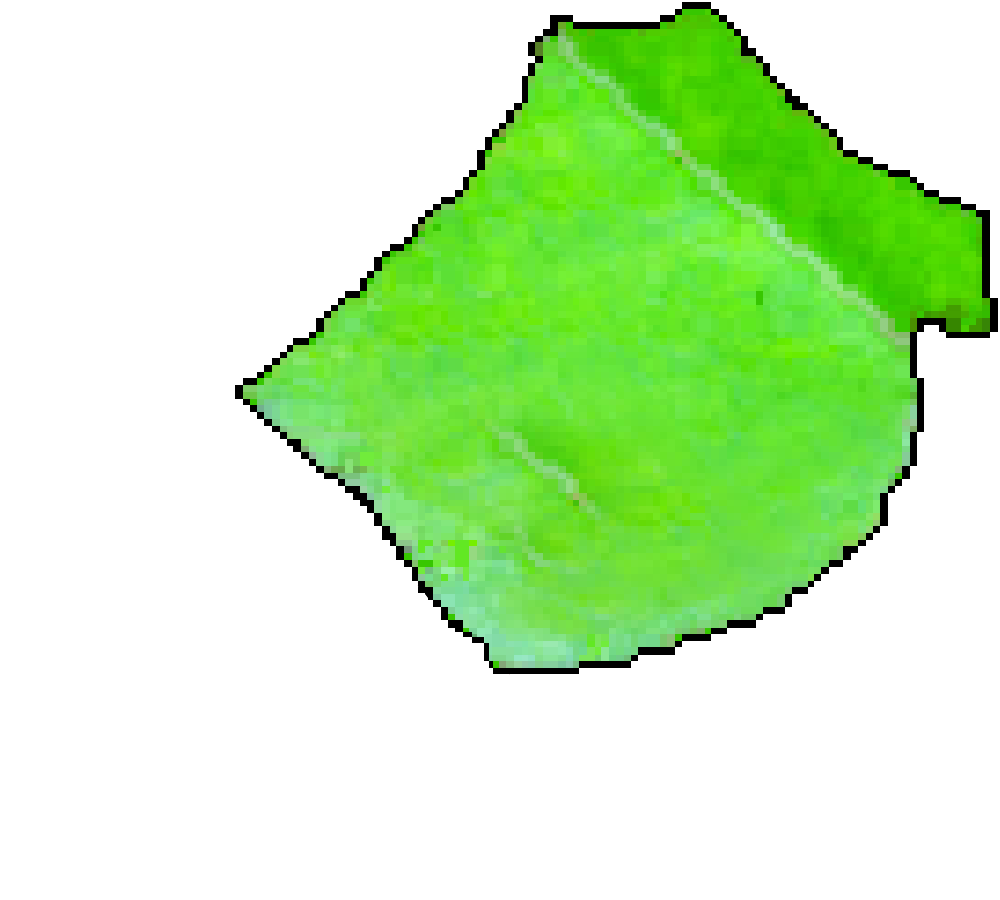
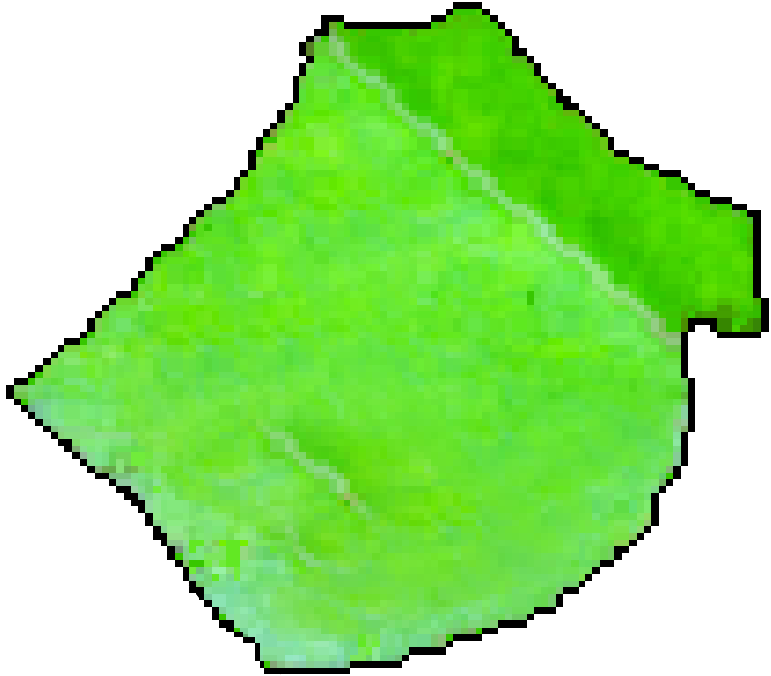
Cropped the leaf image. Implemented spritesheet for big ants walking. Recalculated the border points for the leaf regarding fungus and leaf minim walking

diff --git a/js/game/flyDefense/parentAntObject.js b/js/game/flyDefense/parentAntObject.js
@@ -1,67 +1,81 @@
 function ParentAntObject()
 {
-	this.bigAntHeight = renderer.canvas.height*0.7;
-	this.bigAntWidth = renderer.canvas.width*1.25;
+	this.bigAntHeight = renderer.canvas.height*0.33;
+	this.bigAntWidth = renderer.canvas.width*0.5;
 	this.bigAntX = renderer.canvas.width/2 - this.bigAntWidth/2;
-	this.bigAntY = renderer.canvas.height*0.3;
-	
+	this.bigAntY = renderer.canvas.height - this.bigAntHeight*1.2;
+	this.bigAntWalkingSourceWidth = 553;
+	this.bigAntWalkingSourceHeight = 320;
+
 	this.x = renderer.canvas.width/2 - this.bigAntWidth/2;
 	this.y = renderer.canvas.height*0.6;
 
 	this.leafImage = leafImage;
 	this.fungusImage = fungusImage;
-	this.arrayOfBigAntWalkingImages = [bigAntWalkingSpriteSheet];
-	//this.randomWalkingImageIndex = getRandomIntInclusive(0,this.arrayOfBigAntWalkingImages.length - 1);
-	this.currentBigAntImage = this.arrayOfBigAntWalkingImages[0];
 
+	this.currentBigAntWalkingImageIndex = getRandomIntInclusive(0,10);
+	
+	this.cycleBigAntImages = function()
+	{
+		this.currentBigAntWalkingImageIndex++;
+		if (this.currentBigAntWalkingImageIndex > 10)
+		{
+			this.currentBigAntWalkingImageIndex = 0;
+		}
+	}
+
+	// this.cycleBigAntImagesInterval = new frameInterval(this.cycleBigAntImages, 100);
+	// this.cycleBigAntImagesInterval.start();
+	
+	this.drawBigAnt = function()
+	{
+		renderer.drawImage(bigAntWalkingSpriteSheet, 
+			this.bigAntWalkingSourceWidth*this.currentBigAntWalkingImageIndex,0, this.bigAntWalkingSourceWidth,this.bigAntWalkingSourceHeight,
+			this.bigAntX,this.bigAntY, this.bigAntWidth,this.bigAntHeight);
+	}
+
+	this.leafWidth = this.bigAntWidth*0.7;
+	this.leafHeight = this.bigAntHeight*2;
+	this.leafX = this.bigAntX + this.bigAntWidth*0.55;
+	this.leafY = this.bigAntY + this.bigAntHeight/2 - this.leafHeight*1.05;
 
 	this.leafPolygonWalkingBorderPoints = 
 		[
 
-			{name:'1',x:renderer.canvas.width*0.565,y:renderer.canvas.height*0.05},
-			{name:'2',x:renderer.canvas.width*0.68,y:renderer.canvas.height*0.18},
-			{name:'3',x:renderer.canvas.width*0.77,y:renderer.canvas.height*0.22},
-			{name:'4',x:renderer.canvas.width*0.785,y:renderer.canvas.height*0.33},
-			{name:'5',x:renderer.canvas.width*0.8,y:renderer.canvas.height*0.36},
-			{name:'6',x:renderer.canvas.width*0.75,y:renderer.canvas.height*0.53},
-			{name:'7',x:renderer.canvas.width*0.725,y:renderer.canvas.height*0.69},
-			{name:'8',x:renderer.canvas.width*0.64,y:renderer.canvas.height*0.76},
-			{name:'9',x:renderer.canvas.width*0.66,y:renderer.canvas.height*0.685},
-			{name:'10',x:renderer.canvas.width*0.615,y:renderer.canvas.height*0.73},
-			{name:'11',x:renderer.canvas.width*0.575,y:renderer.canvas.height*0.75},
-			{name:'12',x:renderer.canvas.width*0.555,y:renderer.canvas.height*0.73},
-			{name:'13',x:renderer.canvas.width*0.48,y:renderer.canvas.height*0.65},
-			{name:'14',x:renderer.canvas.width*0.45,y:renderer.canvas.height*0.45},
-			{name:'15',x:renderer.canvas.width*0.445,y:renderer.canvas.height*0.355},
-			{name:'16',x:renderer.canvas.width*0.46,y:renderer.canvas.height*0.345},
-			{name:'17',x:renderer.canvas.width*0.465,y:renderer.canvas.height*0.335},
-			{name:'18',x:renderer.canvas.width*0.515,y:renderer.canvas.height*0.225},
-			{name:'19',x:renderer.canvas.width*0.565,y:renderer.canvas.height*0.05}
+			{name:'1',x:this.leafX-this.leafWidth*0.025,y:this.leafY + this.leafHeight*0.575},
+			{name:'2',x:this.leafX+this.leafWidth*0.275,y:this.leafY + this.leafHeight*0.3},
+			{name:'3',x:this.leafX+this.leafWidth*0.425,y:this.leafY + this.leafHeight*0.025},
+			{name:'4',x:this.leafX+this.leafWidth*0.625,y:this.leafY + this.leafHeight*0.01},
+			{name:'5',x:this.leafX+this.leafWidth*0.825,y:this.leafY + this.leafHeight*0.22},
+			{name:'6',x:this.leafX+this.leafWidth,y:this.leafY + this.leafHeight*0.32},
+			{name:'7',x:this.leafX+this.leafWidth,y:this.leafY + this.leafHeight*0.5},
+			{name:'8',x:this.leafX+this.leafWidth*0.9,y:this.leafY + this.leafHeight*0.5},
+			{name:'9',x:this.leafX+this.leafWidth*0.9125,y:this.leafY + this.leafHeight*0.66},
+			{name:'10',x:this.leafX+this.leafWidth*0.775,y:this.leafY + this.leafHeight*0.88},
+			{name:'11',x:this.leafX+this.leafWidth*0.45,y:this.leafY + this.leafHeight*1.0125},
+			{name:'12',x:this.leafX+this.leafWidth*0.275,y:this.leafY + this.leafHeight*0.95},
+			{name:'13',x:this.leafX+this.leafWidth*0.15,y:this.leafY + this.leafHeight*0.75},
+			{name:'19',x:this.leafX-this.leafWidth*0.025,y:this.leafY + this.leafHeight*0.575}
 
 		];
 
 	this.leafPolygonFungusBorderPoints = 
 	[
 
-		{name:'1',x:renderer.canvas.width*0.565,y:renderer.canvas.height*0.06},
-		{name:'2',x:renderer.canvas.width*0.68,y:renderer.canvas.height*0.2},
-		{name:'3',x:renderer.canvas.width*0.77,y:renderer.canvas.height*0.24},
-		{name:'4',x:renderer.canvas.width*0.775,y:renderer.canvas.height*0.33},
-		{name:'5',x:renderer.canvas.width*0.79,y:renderer.canvas.height*0.36},
-		{name:'6',x:renderer.canvas.width*0.74,y:renderer.canvas.height*0.53},
-		{name:'7',x:renderer.canvas.width*0.715,y:renderer.canvas.height*0.675},
-		{name:'8',x:renderer.canvas.width*0.66,y:renderer.canvas.height*0.72},
-		{name:'9',x:renderer.canvas.width*0.66,y:renderer.canvas.height*0.66},
-		{name:'10',x:renderer.canvas.width*0.615,y:renderer.canvas.height*0.7},
-		{name:'11',x:renderer.canvas.width*0.575,y:renderer.canvas.height*0.69},
-		{name:'12',x:renderer.canvas.width*0.56,y:renderer.canvas.height*0.68},
-		{name:'13',x:renderer.canvas.width*0.505,y:renderer.canvas.height*0.62},
-		{name:'14',x:renderer.canvas.width*0.46,y:renderer.canvas.height*0.45},
-		{name:'15',x:renderer.canvas.width*0.455,y:renderer.canvas.height*0.355},
-		{name:'16',x:renderer.canvas.width*0.47,y:renderer.canvas.height*0.355},
-		{name:'17',x:renderer.canvas.width*0.475,y:renderer.canvas.height*0.335},
-		{name:'18',x:renderer.canvas.width*0.525,y:renderer.canvas.height*0.225},
-		{name:'19',x:renderer.canvas.width*0.565,y:renderer.canvas.height*0.06}
+		{name:'1',x:this.leafX+this.leafWidth*0.04,y:this.leafY + this.leafHeight*0.575},
+		{name:'2',x:this.leafX+this.leafWidth*0.375,y:this.leafY + this.leafHeight*0.2},
+		{name:'3',x:this.leafX+this.leafWidth*0.425,y:this.leafY + this.leafHeight*0.05},
+		{name:'4',x:this.leafX+this.leafWidth*0.625,y:this.leafY + this.leafHeight*0.05},
+		{name:'5',x:this.leafX+this.leafWidth*0.75,y:this.leafY + this.leafHeight*0.22},
+		{name:'6',x:this.leafX+this.leafWidth*0.975,y:this.leafY + this.leafHeight*0.32},
+		{name:'7',x:this.leafX+this.leafWidth*0.975,y:this.leafY + this.leafHeight*0.48},
+		{name:'8',x:this.leafX+this.leafWidth*0.87,y:this.leafY + this.leafHeight*0.46},
+		{name:'9',x:this.leafX+this.leafWidth*0.86,y:this.leafY + this.leafHeight*0.66},
+		{name:'10',x:this.leafX+this.leafWidth*0.725,y:this.leafY + this.leafHeight*0.88},
+		{name:'11',x:this.leafX+this.leafWidth*0.45,y:this.leafY + this.leafHeight*0.975},
+		{name:'12',x:this.leafX+this.leafWidth*0.35,y:this.leafY + this.leafHeight*0.95},
+		{name:'13',x:this.leafX+this.leafWidth*0.15,y:this.leafY + this.leafHeight*0.7},
+		{name:'19',x:this.leafX+this.leafWidth*0.04,y:this.leafY + this.leafHeight*0.575}
 
 	];
 
@@ -132,8 +146,9 @@ function ParentAntObject()
 
 	this.draw = function()
 	{
-		this.drawBigAnt();
 		this.drawLeaf();
+		this.drawBigAnt();
+		
 		this.drawFungusSpores();
 		this.drawSmallAnt();
 		this.infectionAlertMessage.draw();
@@ -146,63 +161,38 @@ function ParentAntObject()
 		}
 	}
 
-	let bigAntImageWalkingIndex = 0;
-	let bigAntImageDirection = 1;
-	this.cycleBigAntImages = function()
-	{
-		defenseGame.parentAntObject.currentBigAntImage = defenseGame.parentAntObject.arrayOfBigAntWalkingImages[bigAntImageWalkingIndex];
-		bigAntImageWalkingIndex++;
-		if (bigAntImageWalkingIndex > defenseGame.parentAntObject.arrayOfBigAntWalkingImages.length - 1)
-		{
-			bigAntImageWalkingIndex = 0;
-		}
-		
-	}
-
-	this.cycleBigAntImagesInterval = new frameInterval(this.cycleBigAntImages, 100);
-	this.cycleBigAntImagesInterval.start();
 	
-	this.drawBigAnt = function()
-	{
-		renderer.drawImage(this.currentBigAntImage, this.bigAntX,this.bigAntY, this.bigAntWidth,this.bigAntHeight);
-		
-	}
-
 	
-	this.leafWidth = this.bigAntWidth*0.5;
-	this.leafHeight = this.bigAntHeight*1.75;
-	this.leafX = this.bigAntX + this.bigAntWidth - this.leafWidth*0.75;
-	this.leafY = this.bigAntY + this.bigAntHeight/2 - this.leafHeight;
 	
 	this.drawLeaf = function()
 	{
 		renderer.drawImage(this.leafImage, this.leafX,this.leafY, this.leafWidth,this.leafHeight);
 		if (defenseGame.debugOn === true)
 		{
-			renderer.strokeStyle = 'red';
-			renderer.lineWidth = 5;
-			renderer.strokeRect(this.fungusTangleX,this.fungusTangleY, this.fungusTangleWidth,this.fungusTangleHeight);
+			// renderer.strokeStyle = 'white';
+			// renderer.lineWidth = 5;
+			// renderer.strokeRect(this.fungusTangleX,this.fungusTangleY, this.fungusTangleWidth,this.fungusTangleHeight);
 
-			renderer.moveTo(this.leafPolygonFungusBorderPoints[0].x,this.leafPolygonFungusBorderPoints[0].y);
-			for (let i = 1; i < this.leafPolygonFungusBorderPoints.length; i++)
-			{
+			// renderer.moveTo(this.leafPolygonFungusBorderPoints[0].x,this.leafPolygonFungusBorderPoints[0].y);
+			// for (let i = 1; i < this.leafPolygonFungusBorderPoints.length; i++)
+			// {
 				
 				
-				renderer.fillStyle = 'black';
-				renderer.fillRect(this.leafPolygonFungusBorderPoints[i].x,this.leafPolygonFungusBorderPoints[i].y, 5,5);
-				renderer.font = '20px Helvetica';
-				renderer.fillText(this.leafPolygonFungusBorderPoints[i].name, this.leafPolygonFungusBorderPoints[i].x,this.leafPolygonFungusBorderPoints[i].y);
+			// 	renderer.fillStyle = 'black';
+			// 	renderer.fillRect(this.leafPolygonFungusBorderPoints[i].x,this.leafPolygonFungusBorderPoints[i].y, 5,5);
+			// 	renderer.font = '20px Helvetica';
+			// 	renderer.fillText(this.leafPolygonFungusBorderPoints[i].name, this.leafPolygonFungusBorderPoints[i].x,this.leafPolygonFungusBorderPoints[i].y);
 
-				renderer.lineTo(this.leafPolygonFungusBorderPoints[i].x,this.leafPolygonFungusBorderPoints[i].y);
-			}
-			renderer.strokeStyle = 'red';
-			renderer.stroke();
+			// 	renderer.lineTo(this.leafPolygonFungusBorderPoints[i].x,this.leafPolygonFungusBorderPoints[i].y);
+			// }
+			// renderer.strokeStyle = 'white';
+			// renderer.stroke();
 
 			renderer.moveTo(this.leafPolygonWalkingBorderPoints[0].x,this.leafPolygonWalkingBorderPoints[0].y);
 			for (let i = 1; i < this.leafPolygonWalkingBorderPoints.length; i++)
 			{
 				
-				renderer.fillStyle = 'green';
+				renderer.fillStyle = 'lawngreen';
 				renderer.fillRect(this.leafPolygonWalkingBorderPoints[i].x,this.leafPolygonWalkingBorderPoints[i].y, 5,5);
 				renderer.font = '20px Helvetica';
 				renderer.fillText(this.leafPolygonWalkingBorderPoints[i].name, this.leafPolygonWalkingBorderPoints[i].x,this.leafPolygonWalkingBorderPoints[i].y);
@@ -913,6 +903,9 @@ function ParentAntObject()
 		this.initializeLineSegments();
 		this.initializeArrayOfFungusSpores();
 		this.infectionAlertMessage.initialize();
+		console.log(this.currentBigAntWalkingImageIndex);
+		var _this = this;
+		setInterval(function() {_this.cycleBigAntImages()},100);
 	}
 
 	this.headTarget = new Target('head target', renderer.canvas.width * 0.615,renderer.canvas.height * 0.665);

diff --git a/js/game/flyDefense/NPCBigAnt.js b/js/game/flyDefense/NPCBigAnt.js
@@ -1,21 +1,27 @@
 function NPCBigAnt(x)
 {
-	this.bigAntHeight = renderer.canvas.height*0.25;
-	this.bigAntWidth = renderer.canvas.width*0.4;
+	this.bigAntHeight = renderer.canvas.height*0.33;
+	this.bigAntWidth = renderer.canvas.width*0.5;
 	this.bigAntX = x;
-	this.bigAntY = renderer.canvas.height*0.6;
+	this.bigAntY = renderer.canvas.height - this.bigAntHeight*1.2;
+	this.bigAntWalkingSourceWidth = 553;
+	this.bigAntWalkingSourceHeight = 320;
 	
 	this.x = this.bigAntX;
 	this.y = renderer.canvas.height*0.6;
 
 	this.leafImage = leafImage;
-	
 
+	this.currentBigAntWalkingImageIndex = getRandomIntInclusive(0,10);
 	
-	this.arrayOfBigAntWalkingImages = [bigAntWalkingSpriteSheet];
-	//this.randomWalkingImageIndex = getRandomIntInclusive(0,this.arrayOfBigAntWalkingImages.length - 1);
-	//this.currentBigAntWalkingIndex = this.randomWalkingImageIndex;
-	this.currentBigAntImage = this.arrayOfBigAntWalkingImages[0];
+	this.cycleBigAntImages = function()
+	{
+		this.currentBigAntWalkingImageIndex++;
+		if (this.currentBigAntWalkingImageIndex > 10)
+		{
+			this.currentBigAntWalkingImageIndex = 0;
+		}
+	}
 
 	this.draw = function()
 	{
@@ -23,30 +29,19 @@ function NPCBigAnt(x)
 		this.drawLeaf();
 		this.drawSmallAnt();
 	}
-
-	
-	this.cycleBigAntImages = function()
-	{
-		
-		this.currentBigAntImage = this.arrayOfBigAntWalkingImages[this.currentBigAntWalkingIndex];
-		this.currentBigAntWalkingIndex++;
-		if (this.currentBigAntWalkingIndex > this.arrayOfBigAntWalkingImages.length - 1)
-		{
-			this.currentBigAntWalkingIndex = 0;
-		}
-		
-	}
 	
 	this.drawBigAnt = function()
 	{
-		renderer.drawImage(bigAntWalkingSpriteSheet, this.bigAntX,this.bigAntY, this.bigAntWidth,this.bigAntHeight);
+		renderer.drawImage(bigAntWalkingSpriteSheet, 
+		this.bigAntWalkingSourceWidth*this.currentBigAntWalkingImageIndex,0, this.bigAntWalkingSourceWidth,this.bigAntWalkingSourceHeight,
+		this.bigAntX,this.bigAntY, this.bigAntWidth,this.bigAntHeight);
 	}
 
 	
-	this.leafWidth = this.bigAntWidth*0.5;
-	this.leafHeight = this.bigAntHeight*2.5;
-	this.leafX = this.bigAntX + this.bigAntWidth - this.leafWidth*0.75;
-	this.leafY = this.bigAntY + this.bigAntHeight/2 - this.leafHeight;
+	this.leafWidth = this.bigAntWidth*0.7;
+	this.leafHeight = this.bigAntHeight*2;
+	this.leafX = this.bigAntX + this.bigAntWidth*0.55;
+	this.leafY = this.bigAntY + this.bigAntHeight/2 - this.leafHeight*1.05;
 	
 	this.drawLeaf = function()
 	{

diff --git a/js/game/flyDefense/imageLoading.js b/js/game/flyDefense/imageLoading.js
@@ -74,7 +74,7 @@ function loadDefenseGameImages()
 
 	//arrayOfDefenseGameImagesToLoad.push({imageObjectBinding: eggImage, theFile: 'images/flyDefense/creatures/egg.png'});
 
-	arrayOfDefenseGameImagesToLoad.push({imageObjectBinding: leafImage, theFile: 'images/flyDefense/Official Placeholder Art/leaf.png'});
+	arrayOfDefenseGameImagesToLoad.push({imageObjectBinding: leafImage, theFile: 'images/flyDefense/leaf.png'});
 	arrayOfDefenseGameImagesToLoad.push({imageObjectBinding: fungusImage, theFile: 'images/flyDefense/Official Placeholder Art/fungus.png'});
 
 	arrayOfDefenseGameImagesToLoad.push({imageObjectBinding: bigAntWalkingSpriteSheet, theFile: 'images/flyDefense/BigAntWalking/bigAntWalkingSpriteSheet.png'});
